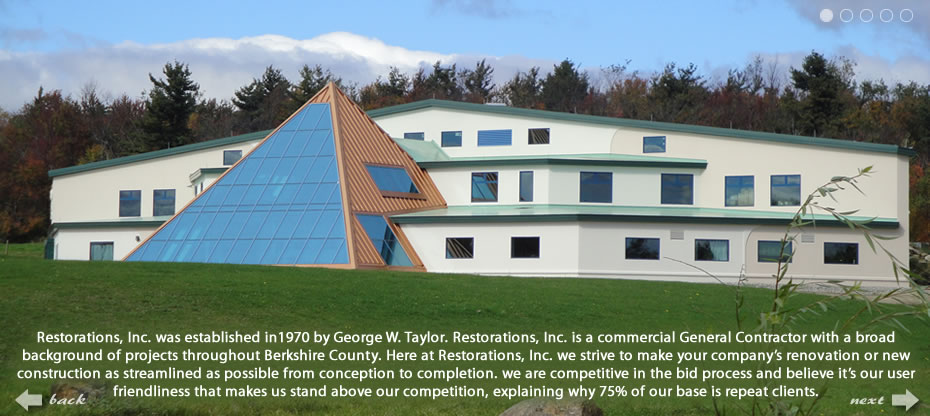
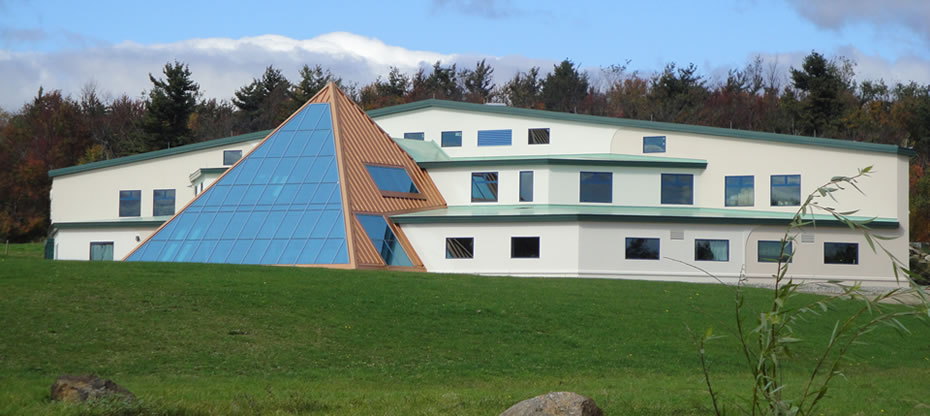
Fixed main page slider styling...buttons and indicators.

diff --git a/css/style.css b/css/style.css
@@ -280,19 +280,19 @@ header nav a.active{
 
 .nivo-directionNav a {
 	display:block;
-	width:30px;
-	height:30px;
+	width:78px;
+	height:27px;
 	background:url(../img/slider/arrows.png) no-repeat;
 	text-indent:-9999px;
 	border:0;
-    bottom: 8px;
+    bottom: 2px;
 }
 a.nivo-nextNav {
-	background-position:-30px 0;
-	right:15px;
+	background-position:0 -27px;
+	right:5px;
 }
 a.nivo-prevNav {
-	left:15px;
+	left: 13px;
 }
 
 .nivo-caption {
@@ -309,6 +309,13 @@ footer{
     position: relative;
     background: url("../img/footer_bg.png") no-repeat 8px 96px;
     margin: 0 auto;
+}
+footer #footerSFW{
+    color: #907061;
+    float: right;
+    font-size: 20px;
+    margin-right: 80px;
+    margin-top: 10px;
 }
 footer #footerTop{
     position: relative;
